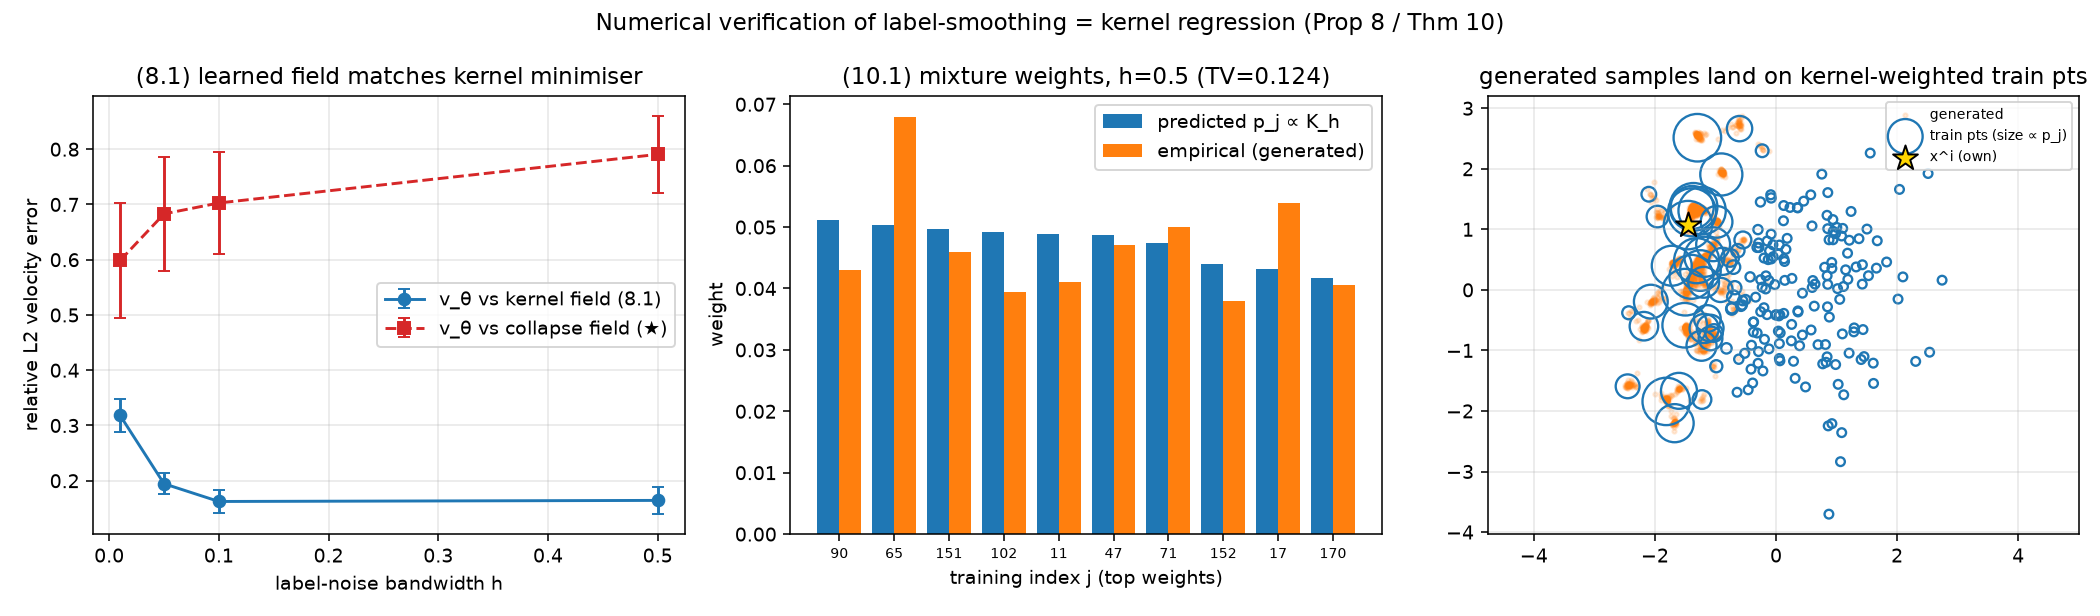
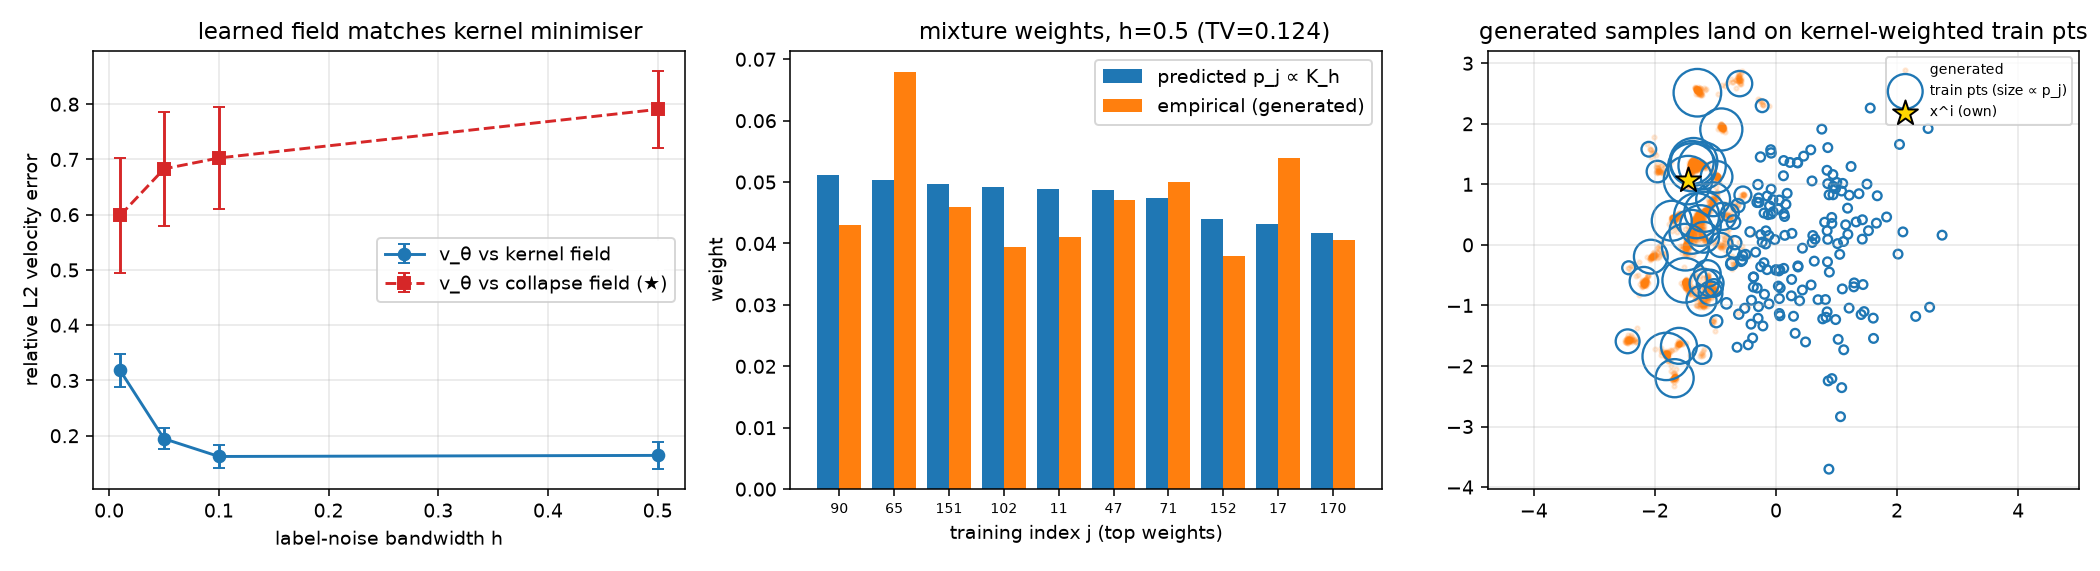
Remove internal references and meta-commentary, shorten the AI statement
- fig_kernel_verify: the suptitle and the "(8.1)" / "(10.1)" labels used the
  numbering of the development notes; they are erased from the image and the caption
  no longer apologises for them
- internal run names (p7y, p7yck) are gone from captions and the reproducibility
  statement
- "we put it that way deliberately", "we are careful about", "we correct that
  misreading" are cut
- the AI use statement keeps every use ICLR 2027 requires disclosing (text, proofs,
  code, experiments and analysis) in five lines; it is mandatory under the ICLR 2027
  AI policy, so it is shortened rather than removed
- the source header no longer names repo-internal documents

diff --git a/paper/main.tex b/paper/main.tex
@@ -2,8 +2,7 @@
 \documentclass{article} % For LaTeX2e
 
 % ---------------------------------------------------------------------------
-% ICLR 2027 submission, auto-assembled from docs/THEORY.md (theory) and
-% results/RESULTS.md (experiments). All numbers reproduced from the repo.
+% ICLR 2027 submission.
 % Compile:  pdflatex main && bibtex main && pdflatex main && pdflatex main
 %
 % Anonymized for double-blind review: no author name/affiliation/email
@@ -725,10 +724,9 @@ table to $<0.05\%$), \texttt{analyze\_p7\_kernel.py}, \texttt{verify\_kernel\_th
 \texttt{verify\_prop17.py}, \texttt{verify\_target\_noise.py},
 \texttt{atomicity\_scaling.py}. Experiments: \texttt{run\_exp1.sh},
 \texttt{run\_sweeps.py} ($+$\texttt{-{}-gpus N}), \texttt{train\_exp2},
-\texttt{train\_exp3}, each followed by the matching analysis script. The original $p7y$
-neural checkpoints were not retained. We release the per-run outputs used for
-Table~\ref{tab:p7kernel}, Table~\ref{tab:dagger}, and Figure~\ref{fig:kernel}, so those
-reported artefacts are reproducible from the supplement; recomputing them from weights
+\texttt{train\_exp3}, each followed by the matching analysis script. For
+Table~\ref{tab:p7kernel}, Table~\ref{tab:dagger} and Figure~\ref{fig:kernel} we release
+the per-run outputs rather than the network weights; recomputing them from weights
 requires rerunning \texttt{run\_sweeps.py}. Proofs of all
 load-bearing results are given in full in Section~\ref{sec:theory} and
 Appendix~\ref{app:proofs}; every stated assumption (distinct labels, smoothness of the
@@ -750,22 +748,11 @@ facilitate memorisation. We are not aware of any other ethical concerns raised b
 submission.
 
 \subsection*{AI use statement}
-We used a generative-AI coding and writing assistant (Claude, Anthropic) throughout
-this project's development: to draft and revise manuscript text, including the
-conversion of the manuscript to the ICLR format and multiple rounds of copy-editing;
-to expand several of the proofs in Section~\ref{sec:theory} and
-Appendix~\ref{app:proofs} from a theory memorandum into the propositions and proofs
-given here; to write the training, evaluation, and analysis code in the released
-repository; and to run and analyse several of the reported experiments, including
-the adversarial-pairing ablation (Section~\ref{sec:adversarial}) and the
-memorisation-ratio diagnostic (Section~\ref{sec:exp1}). We did not use generative AI
-to select, fabricate, or embellish experimental results: every number reported is
-produced by the released code from actual training runs. All AI-drafted proofs were
-checked line-by-line against the underlying mathematics by the authors, and all
-AI-assisted code and analysis outputs were independently verified by re-running the
-experiments and cross-checking the reported statistics against the raw output
-files. We take responsibility for the final content of this work, including all
-text, claims, proofs, and code.
+A generative-AI assistant was used to draft and edit text, to expand proofs
+from a theory memorandum into their full form, to write the training and analysis code, and to
+run and analyse several experiments. Every reported number is produced by the released
+code from actual runs. The authors checked all proofs and verified all results against
+the raw outputs, and take full responsibility for the content.
 
 \bibliographystyle{plainnat}
 \bibliography{refs}
@@ -2968,7 +2955,7 @@ Unlike the MMD, the floor \eqref{eq:w2floor} is directly computable: at the EXP-
 configuration $F=0.0353$, i.e.\ $W_2\ge0.19$ but only $3.5\%$ of $\tr\Sigmapost$, and
 the \emph{population-optimal} atomic law already reaches ${\rm MMD}=0.0089$---below the
 trained model's $0.024$. Atomicity, though exact, is therefore \emph{not} what the MMD
-curves measure; we correct that misreading in Appendix~\ref{sec:aux}. The reason is
+curves measure (Appendix~\ref{sec:aux}). The reason is
 instrumental: an RBF MMD at the median-heuristic bandwidth cannot resolve inter-atom
 spacing, which is why an MMD that falls with $h$ says nothing about whether the
 support is still atomic.
@@ -3030,8 +3017,7 @@ $-0.06,-0.05,-0.07,-0.00,+0.17,+0.22$ at $h{=}5$ (at $M{=}96$ throughout, so the
 comparison across checkpoints is like for like; the final $h{=}4$ value re-measured at
 $M{=}256$ is the $0.481$ quoted above). Tracking the kernel reference is therefore
 something the model \emph{learns}, and $0.481$ is where $60000$ iterations reached
-rather than a ceiling of the model class. We are careful about what this does and does
-not show: it establishes that the deficit is at least partly an optimisation gap and
+rather than a ceiling of the model class. This establishes that the deficit is at least partly an optimisation gap and
 not a fixed property of the parameterisation, and it does \emph{not} establish that
 $\beta\to1$, which would need a budget we have not run. Three rival explanations for a
 fixed exponent (an additive variance floor, a hard floor, and an affine map) were
@@ -3040,8 +3026,8 @@ fitted to the final checkpoint and all lose to the power law in log space
 happening. At $h{=}6$, $\beta$ never leaves zero, which is what the missing range
 predicts. The trained model reproduces the ordering
 Theorem~\ref{thm:endpoint} implies (which conditions have more posterior variance) and
-compresses its dynamic range, by a factor that itself grows with the reference. We put
-it that way deliberately. Theorem~\ref{thm:endpoint} describes the population
+compresses its dynamic range, by a factor that itself grows with the reference.
+Theorem~\ref{thm:endpoint} describes the population
 minimiser; a $35.75$M-parameter network at $60000$ iterations is not that minimiser, so
 $\beta=0.481$ is a fact about how far the optimisation has come, not a refutation. The
 theory predicts the destination, not the speed.
@@ -3298,9 +3284,8 @@ an MLP trained at that same bandwidth for $200000$ iterations, integrated from t
 $160$ draws of $x_0$. The model is converging to the law above it, not to some other
 law: at $h{=}0$ it puts $96\%$ of its paths on the labelled atom, and at $h>0$ its trace
 is within a quarter of the reference on a measurement whose own sampling error is
-$11\%$. Produced by \texttt{scripts/make\_flow\_portraits.py}; the $h>0$ runs are
-\texttt{p7yck\_h*\_seed0}, retrained for this figure because the original P7 sweeps kept
-their metrics but not their checkpoints.}
+$11\%$. Produced by \texttt{scripts/make\_flow\_portraits.py}; the $h>0$ networks were
+retrained for this figure with the P7 settings.}
 \label{fig:bandwidthportrait}
 \end{figure}
 
@@ -4118,11 +4103,9 @@ samples (orange) land on the training points weighted most heavily by the kernel
 mixture-over-atoms endpoint law directly in sample space (right). The right panel is
 at $h{=}0.5$, where the query's own atom $x^i$ (gold star) is only one of
 $n_{\mathrm{eff}}\approx102$ contributors and therefore carries no special weight---the
-opposite of the $h{\to}0$ regime of Corollary~\ref{cor:zerobw}. The panel headings
-carry equation numbers from the development notes rather than this paper's: ``(8.1)''
-is \eqref{eq:kernel-field} and ``(10.1)'' is Theorem~\ref{thm:endpoint}. The plot
-cannot be regenerated with corrected labels because it reads the $p7y$ checkpoints,
-which were not retained (see the reproducibility statement).}
+opposite of the $h{\to}0$ regime of Corollary~\ref{cor:zerobw}. ``Kernel field'' is
+\eqref{eq:kernel-field} and the mixture weights are those of
+Theorem~\ref{thm:endpoint}.}
 \label{fig:kernel}
 \end{figure}
 
